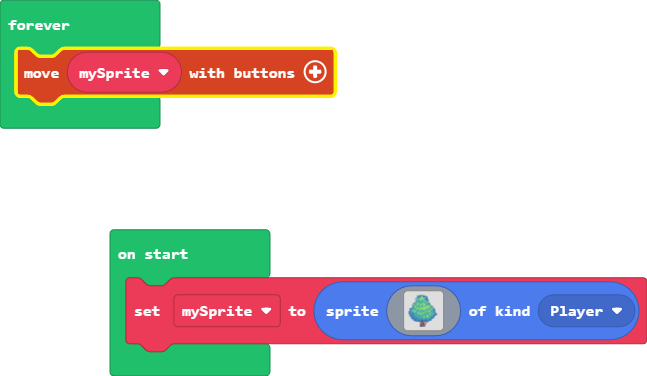
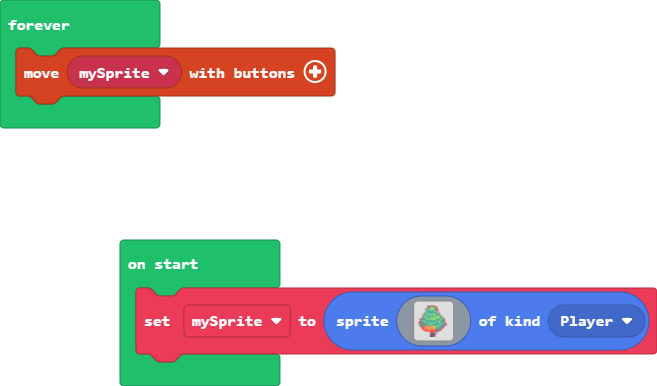
Update pxt.json, main.blocks, main.ts, main.py, images.g.jres, images.g.ts

Changed region(s): [[0.1546, 0.5851, 1.0, 1.0], [0.0, 0.0, 0.5255, 0.3511], [0.0, 0.0585, 0.1236, 0.0878]]

diff --git a/main.ts b/main.ts
@@ -1,39 +1,39 @@
 let mySprite = sprites.create(img`
-    ................86..................
-    ...........6688867886...............
-    ...........8666877688868............
-    ............868777767768............
-    .........688667777776688............
-    ........67767777777778666...........
-    .........6776667767666868...........
-    ..........866667667677688...........
-    .........8666666666667778...........
+    ................26..................
+    ...........6622267226...............
+    ...........2666277622262............
+    ............262777767762............
+    .........222667777776622............
+    ........67767777777772666...........
+    .........6776667767666262...........
+    ..........266667667677622...........
+    .........2666666666667772...........
     ........667766666666666676..........
     .......67766667666776667776.........
-    ......886667776676777666688.........
-    .....67766777667767777666768........
+    ......226667776676777666622.........
+    .....67766777667767777666762........
     ....6776666666777667776666776.......
-    .....8667776667766676677776776......
-    ......8777666666667776777776688.....
-    ....6887766776677677777777776776....
-    ..8866666677767777777777766666778...
-    .86666666777667767777766666776668...
-    ..88677666666777677677666667776668..
-    ..86776677666666666666667776666668..
-    886666677766667666666776677766668...
-    6668666676667766767767766677666668..
-    88866666666777677677667666666776668.
-    .86668866666766776776666667766666668
-    .86688666666666776666667667776666688
-    .668866666666666666666677666666688..
-    ..8866686666666666677667776666668...
-    ...866886666666666677667776666668...
-    ...86886668666666667666666666888....
-    ....88866886686666666666666668......
-    ......86886668666866668666868.......
-    ......88866688668866688866888.......
-    ........8888888688888ce868..........
-    ..............e88e88.ec.8...........
+    .....2667776667766676677776776......
+    ......2777666666667776777776622.....
+    ....6227766776677677777777776776....
+    ..2266666677767777777777766666772...
+    .26666666777667767777766666776662...
+    ..22677666666777677677666667776662..
+    ..26776677666666666666667776666662..
+    226666677766667666666776677766662...
+    6662666676667766767767766677666662..
+    22266666666777677677667666666776662.
+    .26662266666766776776666667766666662
+    .26622666666666776666667667776666622
+    .662266664446666666666677666666622..
+    ..2266624444444444455467776666662...
+    ...266224444444444455467776666662...
+    ...26224442444444445446666666222....
+    ....22244224444444444466666662......
+    ......24224442444244442666262.......
+    ......22244442442244422266222.......
+    ........2222222422222ce262..........
+    ..............e22e22.ec.2...........
     ...............eeee..e..............
     ...............ceef.ce..............
     ...............ceefcec..............

diff --git a/images.g.ts b/images.g.ts
@@ -1,0 +1,60 @@
+// Auto-generated code. Do not edit.
+namespace myImages {
+
+    helpers._registerFactory("image", function(name: string) {
+        switch(helpers.stringTrim(name)) {
+            case "image1":
+            case "myImage":return img`
+..........bbbbbb................
+.......bbb444444bb..............
+.....2244444ddd444b.............
+....244444444dddd44e............
+...244444444444ddd4be...........
+..244444444444444d44be..........
+.2b444444444444444d4be..........
+.2b44444444444444444bbe.........
+2bbb4444444444444444bbe.........
+2bbb4444444444444444bbe.........
+2bb4b4444444444444444bbe........
+2bb4444444444444444444be........
+2bb44444444444444444444e........
+2bbb444bbb4444444444444e........
+22bbb444bb4bb444444444be........
+.2bbbbb44bbbb44444444bbe........
+.22bbbbbbbb44bbb444444bbe.......
+..eeebbbbbbb44bbb444444be.......
+...eeeeebbbbbbbb44b4444be.......
+.....eeeeee222bb44bbb4bbe.......
+.......eeeee222bb44bbbbee.......
+............e222bbbbbbbec.......
+..............ee2bbbbeebdb......
+.................eeeeecdddb.....
+.......................cd11bbbb.
+........................cd111dbb
+.........................b11111c
+.........................c11dd1c
+.........................cd1dbc.
+.........................cb11c..
+..........................ccc...
+................................
+`;
+        }
+        return null;
+    })
+
+    helpers._registerFactory("animation", function(name: string) {
+        switch(helpers.stringTrim(name)) {
+
+        }
+        return null;
+    })
+
+    helpers._registerFactory("song", function(name: string) {
+        switch(helpers.stringTrim(name)) {
+
+        }
+        return null;
+    })
+
+}
+// Auto-generated code. Do not edit.

diff --git a/main.py b/main.py
@@ -1,0 +1,48 @@
+mySprite = sprites.create(img("""
+        ................86..................
+            ...........6688867886...............
+            ...........8666877688868............
+            ............868777767768............
+            .........688667777776688............
+            ........67767777777778666...........
+            .........6776667767666868...........
+            ..........866667667677688...........
+            .........8666666666667778...........
+            ........667766666666666676..........
+            .......67766667666776667776.........
+            ......886667776676777666688.........
+            .....67766777667767777666768........
+            ....6776666666777667776666776.......
+            .....8667776667766676677776776......
+            ......8777666666667776777776688.....
+            ....6887766776677677777777776776....
+            ..8866666677767777777777766666778...
+            .86666666777667767777766666776668...
+            ..88677666666777677677666667776668..
+            ..86776677666666666666667776666668..
+            886666677766667666666776677766668...
+            6668666676667766767767766677666668..
+            88866666666777677677667666666776668.
+            .86668866666766776776666667766666668
+            .86688666666666776666667667776666688
+            .668866666666666666666677666666688..
+            ..8866686666666666677667776666668...
+            ...866886666666666677667776666668...
+            ...86886668666666667666666666888....
+            ....88866886686666666666666668......
+            ......86886668666866668666868.......
+            ......88866688668866688866888.......
+            ........8888888688888ce868..........
+            ..............e88e88.ec.8...........
+            ...............eeee..e..............
+            ...............ceef.ce..............
+            ...............ceefcec..............
+            ...............feefce...............
+            ...............fceeec...............
+            ...............ffceec...............
+    """),
+    SpriteKind.player)
+
+def on_forever():
+    controller.move_sprite(mySprite)
+forever(on_forever)
